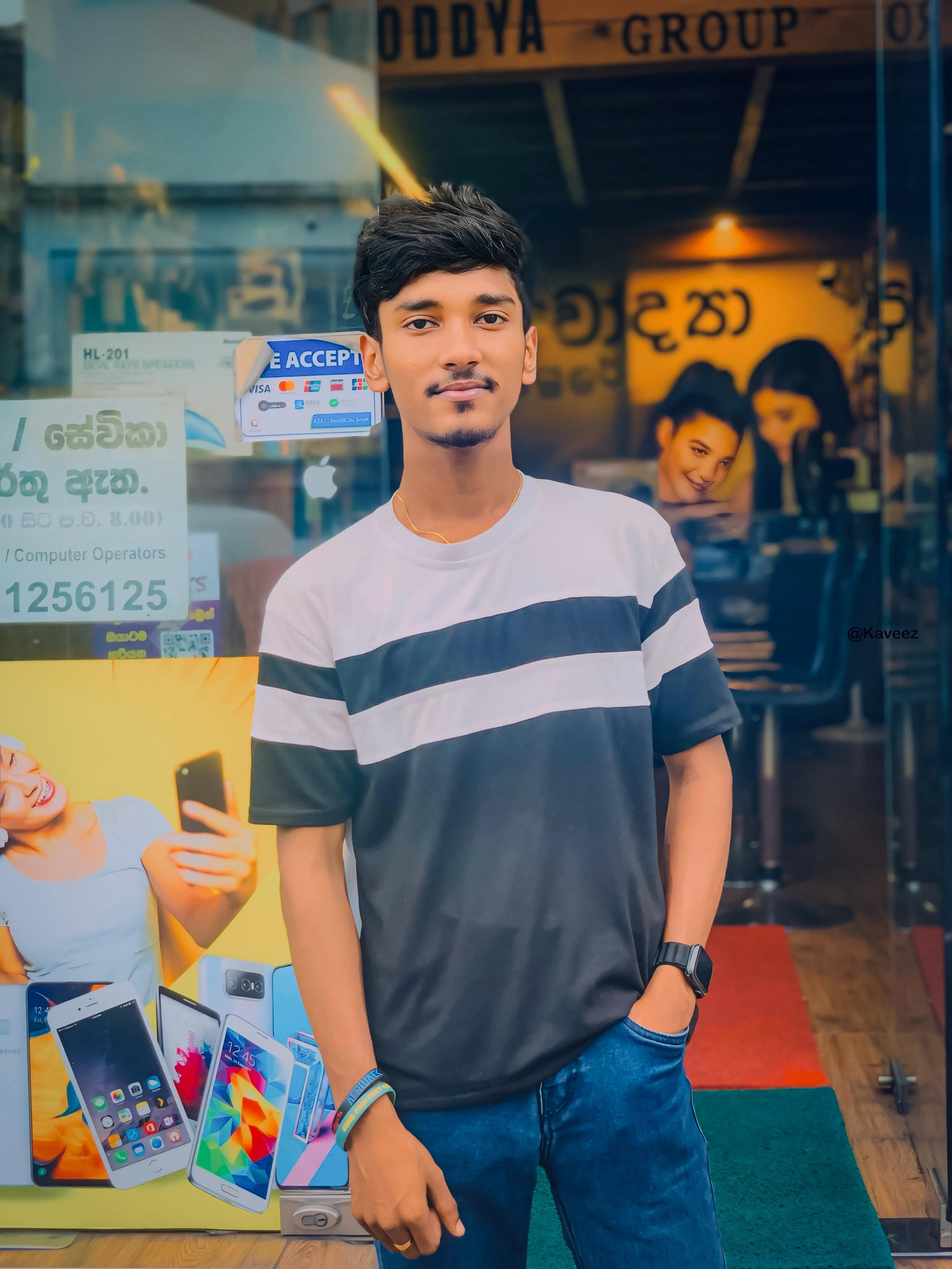
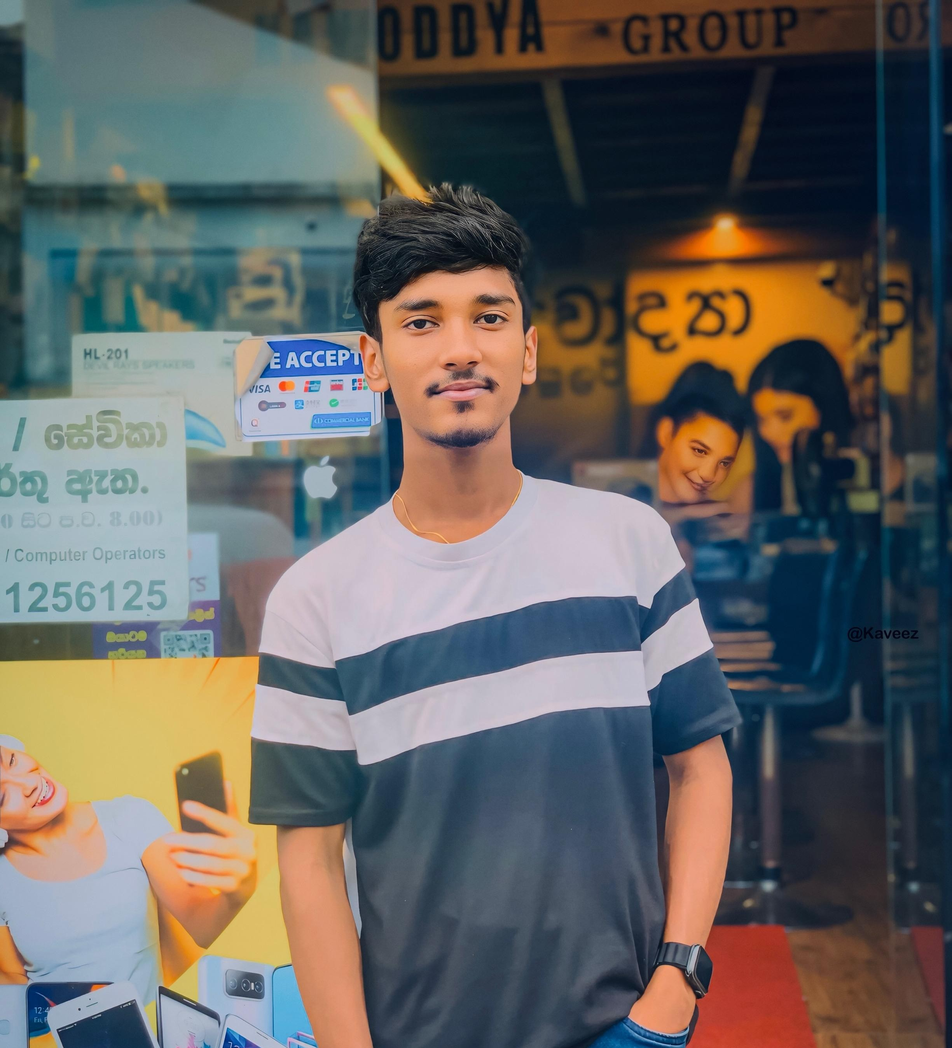
updte galler section

diff --git a/css/style.css b/css/style.css
@@ -2268,6 +2268,7 @@ html[data-theme='light'] .btn.download-cv:hover {
 
 /*gallery section*/
 .gallery-section {
+    --gallery-zoom: 1;
     padding-block: clamp(40px, 6vw, 72px);
     position: relative;
     overflow: hidden;
@@ -2292,6 +2293,8 @@ html[data-theme='light'] .btn.download-cv:hover {
     grid-auto-rows: clamp(10rem, 22vw, 14rem);
     grid-auto-flow: dense;
     gap: 0.75rem;
+    transform: scale(var(--gallery-zoom));
+    transform-origin: top center;
 }
 
 .gallery-section .gallery figure {
@@ -2360,6 +2363,12 @@ html[data-theme='light'] .btn.download-cv:hover {
 @media (max-width: 900px) {
     .gallery-section .main {
         padding: 0 0.75rem;
+    }
+}
+
+@media (min-width: 901px) {
+    .gallery-section {
+        --gallery-zoom: 0.92;
     }
 }
 

diff --git a/index.html b/index.html
@@ -628,7 +628,7 @@
     </figure>
 
     <figure>
-      <img src="assets/img/gallery/WhatsApp Image 2026-04-05 at 23.30.12 (1).jpeg" alt="Lorem ipsum dolor sit amet">
+      <img src="assets/img/gallery/WhatsApp Image 2026-04-05 at 23.30.13(1).jpeg" alt="Lorem ipsum dolor sit amet">
     </figure>
 
     <figure>
